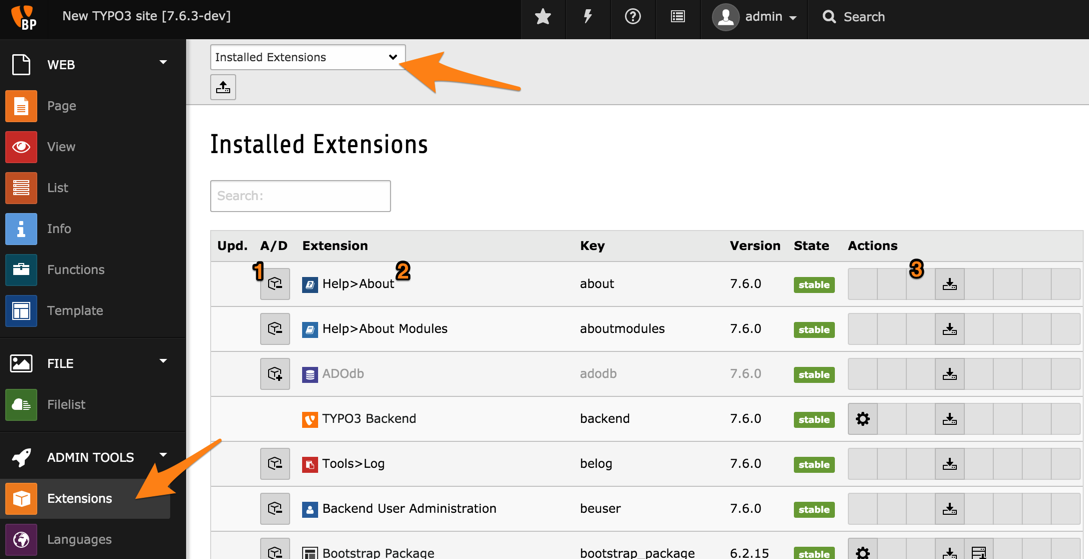
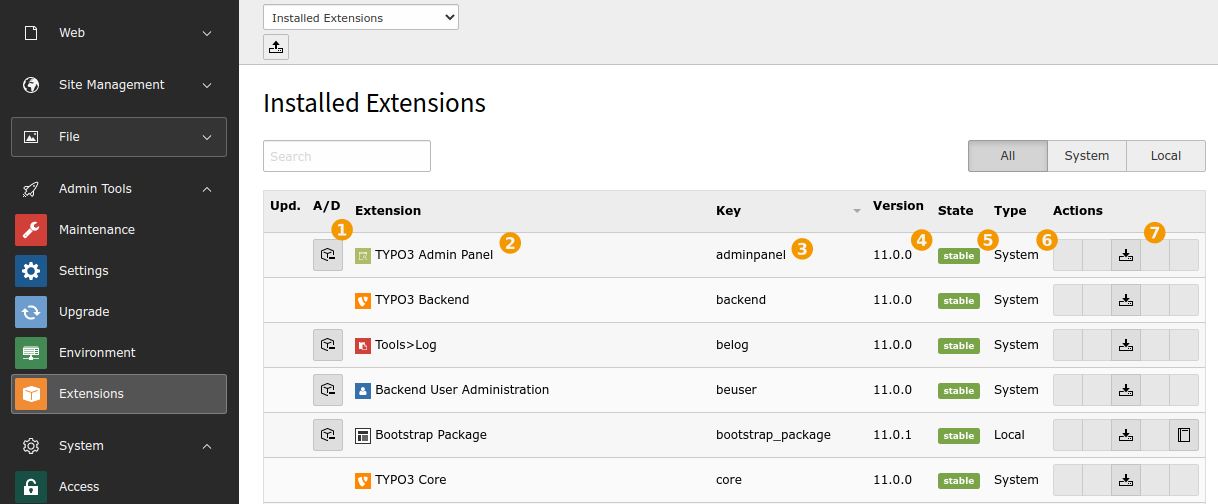
Update chapter on Extension Manager
Releases: master, 10.4, 9.5

diff --git a/Documentation/ExtensionManager/Index.rst b/Documentation/ExtensionManager/Index.rst
@@ -17,40 +17,40 @@ The Extension Manager
 
    It is possible to set up your TYPO3 CMS installation and install
    extensions by using **Composer**. In that case, the *Extension Manager*
-   is of little relevance. For more information, see the chapters in the
+   is of less relevance. For more information, see the chapters in the
    Installation & Upgrade Guide:
 
    * :ref:`t3install:install-via-composer`
    * :ref:`t3install:install-extension-with-composer`
 
-   If you are using Composer, skip to
-   the next chapter :ref:`backend-modules`.
-
-
 TYPO3 CMS has many built-in features but even more features are
 available via extensions. Actually the whole of TYPO3 CMS itself
 is made of extensions. With public extensions you can enhance existing
-features or add totally new ones.
+features or add new ones.
 
-The *Extension Manager* is where you can manage available extensions
-or get new ones from the TYPO3 Extension Repository (TER). It is quite
+The *Extension Manager* is where you can manage available extensions.
+You can also install extensions from the TYPO3 Extension Repository (TER),
+if your installation is not set up with Composer. The *Extension Manager* is quite
 a rich tool and this chapter provides only a brief overview.
 
-Moving to **ADMIN TOOLS > Extensions**, we get the following view:
+Moving to **ADMIN TOOLS > Extensions**, we get the following view
+(in non-Composer mode):
 
 .. figure:: ../Images/BackendExtensionManager.png
    :alt: TYPO3 CMS Extension Manager
    :class: with-shadow
 
 It shows the "Installed extensions". The first action icon (1) can be used
-to install an uninstalled extension or vice-versa (uninstalled extensions
+to activate an extension or deactivate it (deactivated extensions
 appear grayed out).
 
-Next comes information about the extension: title, key, version and state.
-Finally are one or more actions icons, depending on what the extension offers.
-All extensions have a download action, many will have a configuration action,
-which can be used to access the extension's options. Again just hover over
-the actions to get a help text.
+Next comes information about the extension (from left to right): the
+title (2), key (3), version (4) state (5) and type (6).
+
+On the right, there are one or more actions icons (7), depending on what the extension offers.
+All extensions have a download action. Hover over the actions to get a help text.
+
+Extensions are configured in :guilabel:`Settings > Extension Configuration`
 
 
 .. _install-extension:
